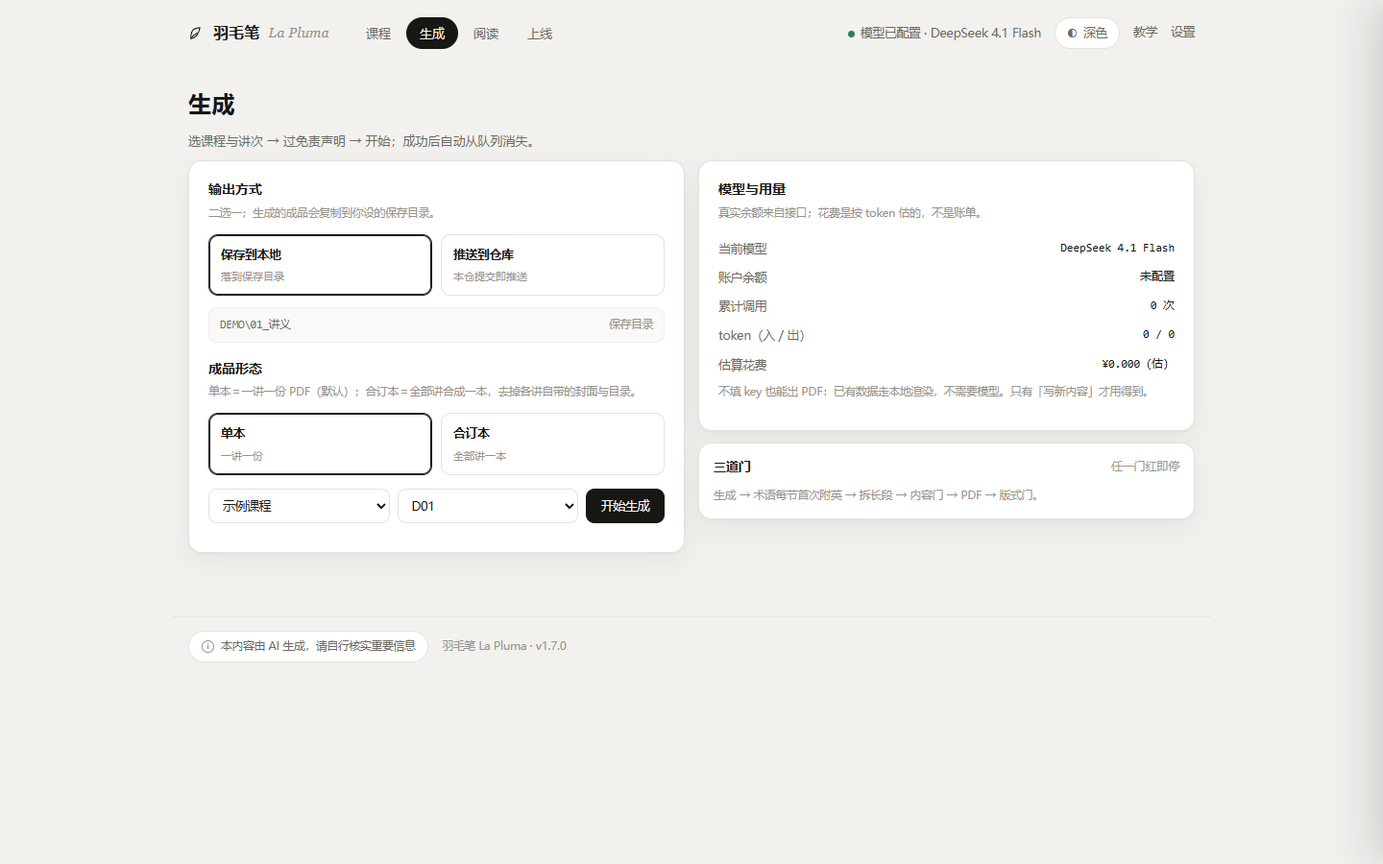
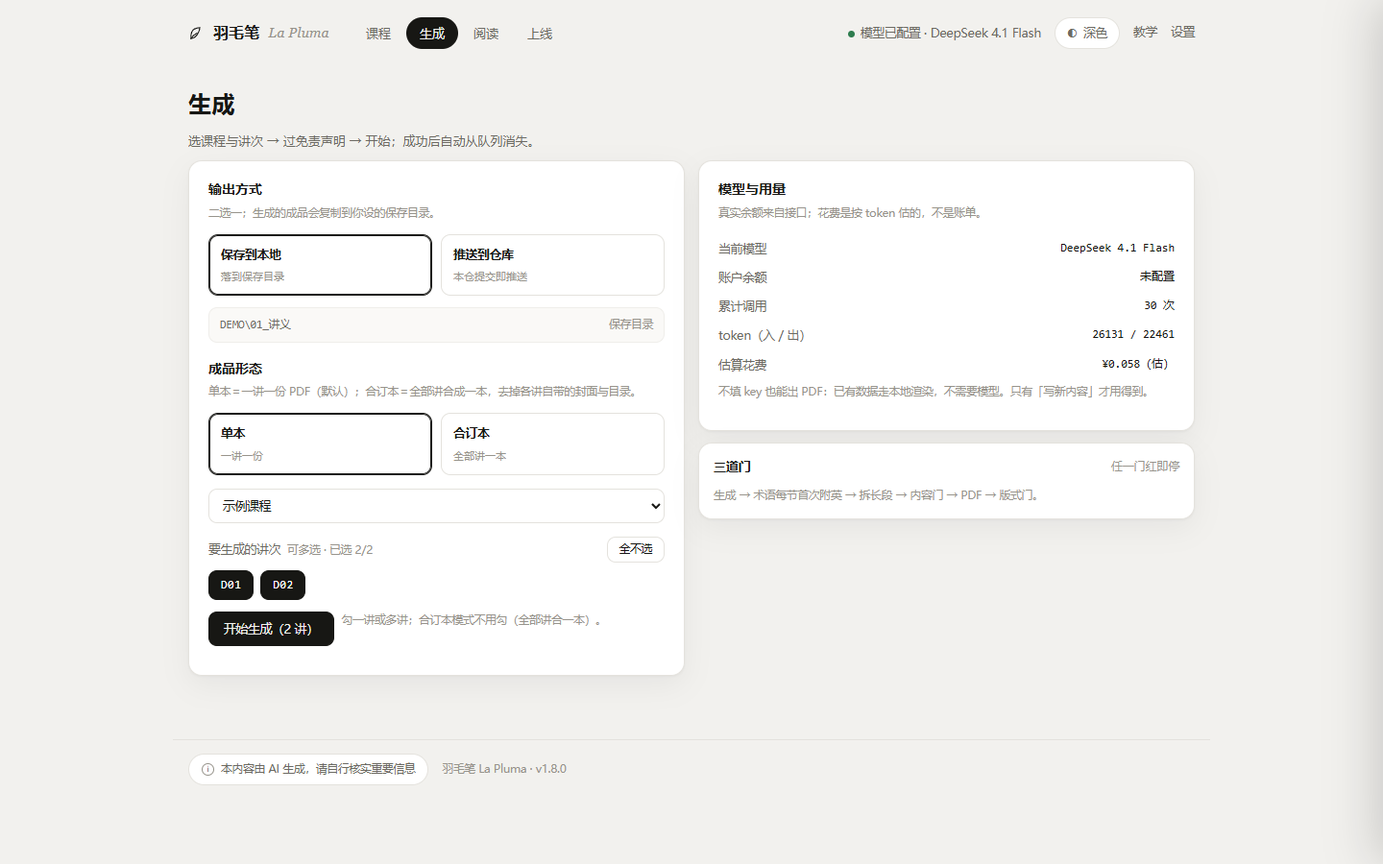
feat(ui): 导出先勾后导、生成页讲次可多选（v1.8.0 补充）
- 课程卡「⇩ 导出 PDF」改成勾选弹窗：默认全选，可全选/全不选；只勾一份直下这份
  PDF，勾多份打一个 zip（连续多次下载会被浏览器拦，所以打包）
- /api/export 新增 sel（可重复）：只打包选中的几份，只认这门课 01_讲义 下的文件名，
  选 1 份时直接回 PDF 而不是 zip
- 生成页「要生成的讲次」从单选下拉改成 chips，可多选；前端串行排队，队列里显示
  「排队中 / 生成中」，跑完就消失；合订本模式整块置灰（合订本 = 全部讲）
- 补图：界面-导出（新）、界面-生成（重拍）

实测：勾 1 份 → D02_桃花源记_讲义.pdf 1,711,891 B；勾 2 份 → DEMO_讲义_选2份.zip
1,446,609 B；批量勾 D01+D02 → 队列「D01 生成中 → D02 排队中 → D02 生成中 → 空」，
日志首行「成功（3s）」；控制台 0 报错。

diff --git a/ui/index.html b/ui/index.html
@@ -233,6 +233,11 @@ nav a.on{background:var(--ink);color:var(--bg)}
    font-size:12px;letter-spacing:.04em;transition:.16s}
 .lens button:hover{border-color:var(--sub);color:var(--ink)}
 .lens button.on{background:var(--chipon);color:var(--chipon-ink);border-color:var(--chipon)}
+/* 2026-11-17：生成页的讲次从单选下拉改成多选 chips（用户：「开始生成也是可以多选生成哪几个」） */
+.lsn-h{display:flex;align-items:center;justify-content:space-between;font-size:12.5px;color:var(--sub);margin:14px 0 8px}
+.lsn-h .n{font-size:11.5px;color:var(--faint);margin-left:7px}
+.lsn button{font-family:Consolas,monospace;padding:5px 12px}
+.lsn.dim{opacity:.45;pointer-events:none}
 
 /* 弹窗 */
 .veil{position:fixed;inset:0;background:rgba(10,10,9,.42);backdrop-filter:blur(2px);display:none;align-items:flex-start;
@@ -447,10 +452,15 @@ footer{max-width:1080px;margin:26px auto 0;padding:0 16px;display:flex;align-ite
           <div class="opt on" data-form="single"><b>单本</b><small>一讲一份</small></div>
           <div class="opt" data-form="book"><b>合订本</b><small>全部讲一本</small></div>
         </div>
-        <div class="tools">
-          <select id="courseSel"></select>
-          <select id="lessonSel"></select>
+        <div class="tools"><select id="courseSel"></select></div>
+        <div class="lsn-h">
+          <span>要生成的讲次<span class="n" id="lsnCnt">可多选</span></span>
+          <button class="btn ghost" id="lsnAll" style="padding:3px 12px;font-size:11.5px">全选</button>
+        </div>
+        <div class="lens lsn" id="lessonPick"></div>
+        <div class="tools" style="margin-top:12px">
           <button class="btn" id="btnGen">开始生成</button>
+          <span class="hint" id="genHint" style="border:0;margin:0;padding:0">勾一讲或多讲；合订本模式不用勾（全部讲合一本）。</span>
         </div>
         <div class="queue" id="queue"></div>
         <div class="log" id="log"></div>
@@ -763,11 +773,61 @@ function exportPdf(rel){
   downloadUrl('/api/export?p=' + encodeURIComponent(rel));
   toast('已开始下载：' + String(rel).split('/').pop());
 }
+/* 2026-11-17 用户纠：「课程的导出 PDF 是让你选择全部还是自己多选，再导出」——
+   所以卡片那个按钮不再直接下 zip，而是先开一个勾选弹窗（默认全选）。
+   只勾一份就直接下那份 PDF；勾多份打成一个 zip（连续多次下载会被浏览器拦）。 */
 function exportCourse(c){
   if(!c) return;
-  if(!(c.files||[]).length){ toast('这一门还没有成品，先去生成页出一份'); return; }
-  downloadUrl('/api/export?course=' + encodeURIComponent(c.code));
-  toast('已开始打包下载：' + c.code + ' · ' + c.files.length + ' 份讲义');
+  const files = sortFiles(c.files || []);
+  if(!files.length){ toast('这一门还没有成品，先去生成页出一份'); return; }
+  const sel = new Set(files.map(f => f.rel));      // 默认全选
+  $('#dlg').innerHTML = `
+    <div class="eb">Export PDF</div><h4>导出 PDF · ${esc(c.title)}</h4>
+    <p class="desc">勾要导出的讲义：只勾一份就直接下这份 PDF，勾多份打成一个 zip。保存到浏览器的下载文件夹。</p>
+    <div class="pickpdf">这一门共 ${files.length} 份<span id="exCnt" style="color:var(--faint);font-size:11.5px;margin-left:7px"></span>
+      <button class="btn ghost" id="exAll" style="float:right;padding:2px 10px;font-size:11.5px;margin-top:-3px">全选 / 全不选</button></div>
+    <div class="pdfs" id="exList">${files.map(f=>`<button data-rel="${esc(f.rel)}" data-name="${esc(f.name)}" class="on">
+        <span class="ck" style="font-family:Consolas,monospace;color:var(--faint);font-size:11.5px">✓</span>${esc(f.name)}<b>${f.pages} p</b></button>`).join('')}</div>
+    <p class="fine">合订本导出（把几讲并成一本）还没做，要合订本请去「生成」页选合订本重新生成。</p>
+    <div class="acts"><button class="btn ghost" id="exNo">取消</button>
+      <button class="btn" id="exGo">导出</button></div>`;
+  $('#veil').classList.add('on');
+  const sync = () => {
+    const n = sel.size;
+    $('#exCnt').textContent = '已选 ' + n + ' 份';
+    const go = $('#exGo');
+    go.disabled = n === 0;
+    go.textContent = n === 0 ? '导出' : (n === 1 ? '导出这 1 份' : ('导出 ' + n + ' 份（打包 zip）'));
+  };
+  $('#exList').querySelectorAll('[data-rel]').forEach(b=>b.onclick=()=>{
+    const rel = b.dataset.rel, on = sel.has(rel);
+    if(on) sel.delete(rel); else sel.add(rel);
+    b.classList.toggle('on', !on);
+    const ck = b.querySelector('.ck'); if(ck) ck.textContent = !on ? '✓' : '＋';
+    sync();
+  });
+  $('#exAll').onclick = () => {
+    const all = sel.size === files.length;
+    sel.clear(); if(!all) files.forEach(f=>sel.add(f.rel));
+    $('#exList').querySelectorAll('[data-rel]').forEach(b=>{
+      const on = sel.has(b.dataset.rel);
+      b.classList.toggle('on', on);
+      const ck = b.querySelector('.ck'); if(ck) ck.textContent = on ? '✓' : '＋';
+    });
+    sync();
+  };
+  $('#exNo').onclick = () => $('#veil').classList.remove('on');
+  $('#exGo').onclick = () => {
+    const pick = files.filter(f => sel.has(f.rel)).map(f => f.rel);
+    if(!pick.length) return;
+    let url = '/api/export?course=' + encodeURIComponent(c.code);
+    pick.forEach(r => { url += '&sel=' + encodeURIComponent(r); });
+    downloadUrl(url);
+    $('#veil').classList.remove('on');
+    toast(pick.length === 1 ? ('已开始下载：' + String(pick[0]).split('/').pop())
+                            : ('已开始打包下载：' + c.code + ' · ' + pick.length + ' 份讲义'));
+  };
+  sync();
 }
 function findHits(kw){
   const lc = kw.toLowerCase();
@@ -925,11 +985,42 @@ function fillSelects(){
   $('#courseSel').innerHTML = list.map(c=>`<option value="${esc(c.code)}">${esc(c.title)}</option>`).join('');
   syncLessons();
 }
+/* 2026-11-17：生成页讲次改多选（用户：「开始生成也是可以多选生成哪几个的」）。
+   LESSON_SEL 存勾中的讲号；换课程就清空，合订本模式下整块置灰（合订本 = 全部讲）。 */
+let LESSON_SEL = new Set();
 function syncLessons(){
   const c = (B.courses||[]).find(x=>x.code===$('#courseSel').value) || (B.courses||[])[0];
-  const opts = (c?c.lessons:[]).map(n=>`<option>${esc(n)}</option>`).join('') || '<option value="">（没有可生成的数据）</option>';
-  $('#lessonSel').innerHTML = opts;
+  const les = (c ? c.lessons : []) || [];
+  LESSON_SEL = new Set();
+  $('#lessonPick').innerHTML = les.map(n=>`<button data-lsn="${esc(n)}">${esc(n)}</button>`).join('')
+    || '<span class="hint" style="border:0;padding:0;margin:0">这一门没有可生成的数据（缺 `_lessons`）</span>';
+  $('#lessonPick').querySelectorAll('[data-lsn]').forEach(b=>b.onclick=()=>{
+    const k = b.dataset.lsn;
+    LESSON_SEL.has(k) ? LESSON_SEL.delete(k) : LESSON_SEL.add(k);
+    b.classList.toggle('on', LESSON_SEL.has(k));
+    syncLsnCnt();
+  });
+  syncLsnCnt();
 }
+function syncLsnCnt(){
+  const all = $('#lessonPick').querySelectorAll('[data-lsn]').length;
+  const n = LESSON_SEL.size;
+  $('#lsnCnt').textContent = FORM==='book' ? '合订本 = 全部讲' : ('可多选' + (n ? ' · 已选 '+n+'/'+all : ''));
+  $('#lsnAll').style.display = (FORM==='book' || !all) ? 'none' : '';
+  $('#lsnAll').textContent = (all && n === all) ? '全不选' : '全选';
+  $('#lessonPick').classList.toggle('dim', FORM==='book');
+  const go = $('#btnGen');
+  go.textContent = FORM==='book' ? '生成合订本' : (n ? ('开始生成（'+n+' 讲）') : '开始生成');
+  go.disabled = FORM==='book' ? false : (n === 0);
+}
+$('#lsnAll').onclick = () => {
+  const btns = $('#lessonPick').querySelectorAll('[data-lsn]');
+  const allOn = LESSON_SEL.size === btns.length && btns.length > 0;
+  LESSON_SEL.clear();
+  if(!allOn) btns.forEach(b=>LESSON_SEL.add(b.dataset.lsn));
+  btns.forEach(b=>b.classList.toggle('on', LESSON_SEL.has(b.dataset.lsn)));
+  syncLsnCnt();
+};
 $('#courseSel').onchange = syncLessons;
 document.querySelectorAll('.opt[data-mode]').forEach(o=>o.onclick=()=>{
   document.querySelectorAll('.opt[data-mode]').forEach(x=>x.classList.remove('on'));
@@ -939,17 +1030,33 @@ document.querySelectorAll('.opt[data-mode]').forEach(o=>o.onclick=()=>{
 document.querySelectorAll('.opt[data-form]').forEach(o=>o.onclick=()=>{
   document.querySelectorAll('.opt[data-form]').forEach(x=>x.classList.remove('on'));
   o.classList.add('on'); FORM=o.dataset.form;
-  $('#lessonSel').disabled = FORM==='book';
+  syncLsnCnt();
 });
 function renderQueue(){
   $('#queue').innerHTML = Q.map(q=>`<div class="qi ${q.st}"><span>${esc(q.course)} · ${esc(q.lesson)}</span>
-    <span class="st">${q.st==='run'?'生成中…':(q.st==='fail'?'失败：'+esc(q.msg||'看日志'):'完成')}</span></div>`).join('');
+    <span class="st">${q.st==='run'?'生成中…':(q.st==='wait'?'排队中…':(q.st==='fail'?'失败：'+esc(q.msg||'看日志'):'完成'))}</span></div>`).join('');
+}
+/* 批量生成：一次请求一讲（后端接口就是按讲走的），前端串行排队；
+   队列里先把所有勾中的讲摆成「排队中」，跑一讲改一讲，完的消失。 */
+let GEN_BUSY = false;
+async function runBatch(course, lessons, form){
+  GEN_BUSY = true; $('#btnGen').disabled = true;
+  const items = lessons.map(no => ({course, lesson:(form==='book' ? '合订本' : no), st:'wait'}));
+  Q = items.slice(); renderQueue();
+  try{
+    for(let i=0;i<lessons.length;i++){
+      await runGenerate(course, lessons[i], form, items[i]);
+    }
+  } finally { GEN_BUSY = false; $('#btnGen').disabled = false; syncLsnCnt(); }
 }
 $('#btnGen').onclick = () => {
-  const no = $('#lessonSel').value, course = $('#courseSel').value;
-  if(FORM==='book'){ if(!course) return; return disclaimer(()=>runGenerate(course,'','book')); }
-  if(!no) return;
-  disclaimer(()=>runGenerate(course,no,FORM));
+  if(GEN_BUSY) return;
+  const course = $('#courseSel').value;
+  if(!course) return;
+  if(FORM==='book') return disclaimer(()=>runBatch(course, [''], 'book'));
+  const list = [...LESSON_SEL];
+  if(!list.length){ toast('先勾要生成的讲次（可多选）'); return; }
+  disclaimer(()=>runBatch(course, list, 'single'));
 };
 function disclaimer(cb){
   $('#dlg').innerHTML = `
@@ -966,10 +1073,13 @@ function disclaimer(cb){
   const close = () => $('#veil').classList.remove('on');
   $('#dlgNo').onclick = close; $('#dlgYes').onclick = () => { close(); cb(); };
 }
-async function runGenerate(course, no, form){
+async function runGenerate(course, no, form, preset){
   form = form || 'single';
   const label = form==='book' ? '合订本' : no;
-  const item = {course, lesson:label, st:'run'}; Q.unshift(item); renderQueue();
+  let item = preset;
+  if(item) item.st = 'run';
+  else { item = {course, lesson:label, st:'run'}; Q.unshift(item); }
+  renderQueue();
   const log = $('#log'); log.style.display='block'; log.textContent = '正在生成 '+label+' …';
   $('#btnGen').disabled = true;
   try{
@@ -979,7 +1089,8 @@ async function runGenerate(course, no, form){
     if(j.ok){ Q = Q.filter(q=>q!==item); renderQueue(); B = await (await fetch('/api/bootstrap')).json(); render(); refreshUsage(); }
     else { item.st='fail'; item.msg=(j.error||'').slice(0,40); renderQueue(); }
   }catch(e){ item.st='fail'; item.msg='请求失败'; renderQueue(); log.textContent='请求失败：'+e; }
-  $('#btnGen').disabled = false;
+  // 批量里（preset 不为空）不由单讲解开按钮，否则排队中途按钮看着可点
+  if(!preset) $('#btnGen').disabled = false;
 }
 
 /* ---------- 会话 ---------- */

diff --git a/ui/server.py b/ui/server.py
@@ -763,8 +763,9 @@ class Handler(BaseHTTPRequestHandler):
                 return self._json(dict(ok=True, **load_session(q.get("code", [DEFAULT_COURSE])[0])))
             if u.path == "/api/export":
                 # 导出成品到本机下载目录（浏览器下载夹）：
-                #   ?p=<相对路径>  → 单份（等同于 /api/pdf?dl=1）
-                #   ?course=<课程> → 整门打包成一个 zip（多份逐个下载会被浏览器拦）
+                #   ?p=<相对路径>              → 单份（等同于 /api/pdf?dl=1）
+                #   ?course=<课程>              → 整门全部成品，打成一个 zip
+                #   ?course=<课程>&sel=<rel>…   → 只打包选中的几份（sel 可重复；只选 1 份就直接给 PDF）
                 # 为什么走下载而不是「拷到某个目录」：桌面上有下载夹，平板上也拿得到；
                 # 拷到一个用户还得先去找的目录，反而多一道。
                 rel = q.get("p", [""])[0]
@@ -776,6 +777,26 @@ class Handler(BaseHTTPRequestHandler):
                 files = course_pdfs(code)
                 if not files:
                     return self._json({"ok": False, "error": "这一门还没有成品，先去生成页出一份"}, 404)
+                sel = [x for x in (q.get("sel") or []) if x]
+                if sel:
+                    # 只认这一门 01_讲义 下的文件：按文件名比对，路径绕不出去
+                    by_name = {fn: full for full, fn in files}
+                    picked = []
+                    for r in sel:
+                        base = os.path.basename(str(r).replace("\\", "/"))
+                        if base in by_name and base not in [fn for _, fn in picked]:
+                            picked.append((by_name[base], base))
+                    if not picked:
+                        return self._json({"ok": False, "error": "选中的文件不在这门课的成品里"}, 400)
+                    if len(picked) == 1:
+                        return self._file(picked[0][0], inline=False)
+                    buf = io.BytesIO()
+                    with zipfile.ZipFile(buf, "w", zipfile.ZIP_DEFLATED) as z:
+                        for full, fn in picked:
+                            z.write(full, fn)
+                    return self._bytes(buf.getvalue(),
+                                       "%s_讲义_选%d份.zip" % (_safe_code(code), len(picked)),
+                                       "application/zip")
                 buf = io.BytesIO()
                 with zipfile.ZipFile(buf, "w", zipfile.ZIP_DEFLATED) as z:
                     for full, fn in files:

diff --git a/docs/预览/README.md b/docs/预览/README.md
@@ -32,7 +32,7 @@
 | `14-讲义多时-搜索.png` | 在 120 份里搜「第7讲」：只剩 1 行，计数变成 `1 / 120` | 同上 | **已实现** |
 | `15-课程旁放大镜.png` | 「课程」标题右侧一个圆形放大镜按钮 | 「在课程——课程旁边 放一个放大镜 打开是一个搜索栏」 | **已实现**（2026-11-17 v1.8.0）· 见 `../资产/界面-主页.png`；另新增「空输入时只摆最近三条」一态，见 `../资产/界面-搜索-最近.png` |
 | `15-搜索面板.png` | 点放大镜展开搜索栏：分「课程」「课件」两组结果，可直接开抽屉或在软件里读 | 「快速定位到课程甚至是课程里面的课件」 | **已实现**（Ctrl+K 唤出、Esc 先清空再收起）· 见 `../资产/界面-搜索.png`；此时课程行与课件行各加了一个「导出」（用户当场口径） |
-| `16-卡片导出PDF.png` | 每张课程卡片右下角一个「⇩ 导出 PDF」 | 「增加导出PDF在每个课程卡片的右下角」 | **已实现（简版）**：点一下就把整门成品打成一个 zip 下载（不做原稿里「全部分册 / 合订本」二选一；合订本导出待规划） |
+| `16-卡片导出PDF.png` | 每张课程卡片右下角一个「⇩ 导出 PDF」 | 「增加导出PDF在每个课程卡片的右下角」 | **已实现**（v1.8.0）：点开是勾选弹窗（默认全选、可全选/全不选），只勾一份直下 PDF、多份打 zip。见 `../资产/界面-导出.png` |
 | `17-阅读全屏.png` | 阅读页全屏：顶栏 / 导航 / 右侧笔记栏全部收起，页面铺满，右上角「退出全屏 · Esc」 | 「在软件里面阅读 的规范化没做好 没有全屏」 | **待实现**（全屏下按高度适配、←/→ 翻页、Esc 退出） |
 | `18-高峰价提示.png` | 生成页「模型与用量」卡里多一段：高峰（工作日 09–12 / 14–18 北京时间）价格是谷时两倍，估算按标准价 | 「写出 deepseek 高峰时间价格会翻倍 提示用户」 | **待实现** |
 | `19-多课程-62门.png` | 62 门课时的课程页实拍（压测）：3 列卡片、暂无搜索 | 「测试在课程很多的情况下 软件会怎么样」 | **已实现**（v1.8.0 加了放大镜与搜索面板，62 门不用再滚；卡片网格本身未改） |
@@ -67,7 +67,18 @@
 | 2026-11-17 | `ui\server.py` 的 `build_note_pdf`：笔记页字体改子集化（`subset_fonts` + `garbage=4/deflate_fonts`） | **不是界面改动**：导出「附笔记」PDF 的体积从 12.44 MB → 0.82 MB、合订本 16.78 → 5.04 MB；页数与逐页像素均未变（21/21 页 sha256 一致）。提交信息标 `[ui-noshow]`。详见 `../体检-零变更优化-20261117.md` |
 | 2026-11-17 | `ui\server.py` 的 `/pdfjs/` 路由：新增 `_static()`（ETag + 304，`no-cache`） | **不是界面改动**：只多了一个 304 分支与两个响应头，pdf.js 的字节、URL、加载方式全部未变。实测：首次 200 / 336,222 字节与磁盘一致；带 `If-None-Match` 回 304；`index.html` 仍 `no-store`；不存在文件仍 404 |
 | 2026-11-17 | `ui\server.py` 路径双根（v1.6.0）：`ROOT` 拆成 `paths.DATA_ROOT`（数据）/ `paths.RES_ROOT`（资源），课程发现扫两根、`safe_join` 允两根、`/api/generate` 改进程内调用 | **不是界面改动**：改动全在路径解析与进程调用，`ui\index.html` 一个字没动；截图同批重拍（`界面-会话` / `界面-导出笔记` / `界面-上线`，1440×900）已放进 `../资产/`，可在 README 的「界面」一节核对 |
-| 2026-11-17 | v1.8.0 只改了课程页（放大镜 / 搜索面板 / 卡片导出）与会话里那个笔记弹窗 | `check-ui-preview` 会报一条**黄 D**，列出 `界面-会话` / `界面-生成` / `界面-阅读` 等 12 张旧图——它们对应的页面这次一个字没改，图仍是真的，只是提交时间早于 `ui\`。两边同一天同一批在 `39ac17c` 里订正过：`界面-主页` / `界面-主页-深色` 重拍，`界面-搜索` / `界面-搜索-最近` / `界面-笔记多选` 新增 |
+| 2026-11-17 | v1.8.0 改的是课程页（放大镜 / 搜索面板 / 卡片导出弹窗）、生成页（讲次多选）与会话里那个笔记弹窗 | `check-ui-preview` 会报一条**黄 D**，列出 `界面-会话` / `界面-阅读` 等旧图——它们对应的页面这次没改，图仍是真的，只是提交时间早于 `ui\`。同批已重拍 `界面-主页` / `界面-主页-深色` / `界面-生成`，新增 `界面-搜索` / `界面-搜索-最近` / `界面-笔记多选` / `界面-导出` |
+
+## 2026-11-17 补丁：两处没先出图就改的（已补图、已告知）
+
+用户当场又提了两条，都是对我上面 15/16 两稿的纠正，没有再单独画设计稿就落地了（当时用户原话是「做完这些先推出」）：
+
+| 改了什么 | 用户原话 | 图 |
+|:--|:--|:--|
+| 课程导出改成先选后导（勾选弹窗） | 「课程的导出PDF 是让你选择的 全部还是自己多选的 再导出 缺一个UI」 | `../资产/界面-导出.png` |
+| 生成页讲次改多选（下拉框 → chips，勾几讲跑几讲） | 「开始生成也是可以多选生成哪几个的」 | `../资产/界面-生成.png` |
+
+下一次这类「用户看完图后当场提的修正」也按本表登记，别只活在提交信息里。
 
 ## 2026-11-17 全部重拍（脱敏）
 

diff --git a/CHANGELOG.md b/CHANGELOG.md
@@ -7,8 +7,10 @@
 - **课程旁的放大镜（设计稿 15）**：「课程」标题右侧一个圆按钮，展开是搜索栏，`Ctrl+K` 唤出；结果分「课程」「课件」两组。按浏览器逻辑：**没输字时只摆最近搜过的三条**（本机 localStorage，最多存 8 条），Esc 一次清空输入、再一次收起，点结果或回车才算一次「搜索」才进历史
 - **搜索结果行可直接导出**：课程行是「打开抽屉 / 导出」（整门打包一个 zip），课件行是「在软件里读 / 导出」（单份原 PDF）；课程卡右下角同时有「⇩ 导出 PDF」（设计稿 16），与课程行走同一段后端
 - **添加笔记可以选多个**：会话里「生成笔记 →」的挑选区从单选改成多选，勾几份就跑几份，各存自己的 `_附笔记.pdf`；勾了「让模型整理」也只调一次模型，结果共用。`/api/note/export` 新增 `targets`（旧的 `target` 仍认）
+- **导出先选后导**：课程卡右下那个按钮不再直接下 zip，改成先开勾选弹窗（默认全选、可全选/全不选）；只勾一份就直接下这份 PDF，勾多份打成一个 zip。`/api/export` 新增 `sel`（可重复，只认这门课 `01_讲义` 下的文件名）。合订本导出未做，弹窗里直说
+- **生成页讲次可多选**：「要生成的讲次」从单选下拉改成 chips，勾几讲跑几讲（串行排队，队列里显示「排队中 / 生成中」）；合订本模式整块置灰（合订本 = 全部讲）
 - **后端两条出口**：`GET /api/export?p=<相对路径>` 单份当附件下载；`?course=<课程>` 把这一门全部成品打成一个 zip（多份逐个下载会被浏览器拦）。修了一处旧错：笔记副本的相对路径原先只按数据根算，示例课程在资源根时会算出 `..\..\` 开头
-- 实测：整门 zip 2 份 / 1,446,609 字节；单份下载与源同大小；笔记多选 2 份 → 10 → 11 页、13 → 14 页；界面自测 9 项全过、控制台 0 报错
+- 实测：整门 zip 2 份 / 1,446,609 字节；单份下载与源同大小；笔记多选 2 份 → 10 → 11 页、13 → 14 页；导出弹窗只勾 1 份 → 直下 `D02_桃花源记_讲义.pdf` 1,711,891 字节、勾 2 份 → `DEMO_讲义_选2份.zip`；批量生成勾 D01+D02 → 队列「D01 生成中 → D02 排队中 → D02 生成中 → 空」、日志首行「成功（3s）」；界面自测 9 项全过、控制台 0 报错
 
 ## v1.7.0 · 2026-11-17
 

diff --git a/README.md b/README.md
@@ -61,12 +61,12 @@ python engine\_make.py D01
 
 | 我要做什么 | 在界面上点哪里 | 出来什么 |
 |:--|:--|:--|
-| **出一讲讲义** | 「生成」页选课程与讲次 → 勾免责声明 → 开始生成 | 一份 PDF，落进你设的保存目录；页数当场可核对 |
+| **出一讲讲义** | 「生成」页选课程 → 勾要生成的讲次（**可多选**）→ 勾免责声明 → 开始生成 | 每讲一份 PDF，落进你设的保存目录；勾几讲就跑几讲，队列里看得到排队 |
 | **全部讲合成一本** | 「生成」页「成品形态」选**合订本** | 一本：1 张封面 + 1 张总目录 + 各讲正文（去掉各讲自带的封面与目录） |
 | **在软件里读一份讲义** | 「课程」页点课程卡 → 抽屉里点那份 PDF | 进「阅读」页：翻页、缩放，不新开浏览器标签 |
 | **边读边记一笔** | 阅读页右侧输入框，笔记挂在当前 `p.N`；Ctrl+Enter 保存 | 存本机，按「课程 + 文档」分开存；关掉再开还在 |
 | **快速找到某门课 / 某份课件** | 「课程」标题右侧的**放大镜**（或 `Ctrl+K`）→ 敲课程名、讲号或课件关键词 | 面板分「课程」「课件」两组；没输字时按浏览器习惯只摆**最近搜过的三条**（只存这台电脑） |
-| **把成品导出到本机** | 课程卡右下「⇩ 导出 PDF」（整门打包）、搜索结果行「导出」（单份） | 落到浏览器的下载文件夹：整门是一个 zip，单份是原 PDF |
+| **把成品导出到本机** | 课程卡右下「⇩ 导出 PDF」→ 弹窗里勾要哪几份（默认全选）→ 导出；搜索结果行「导出」直接导单份 | 只勾一份就下 PDF；勾多份打一个 zip。都落到浏览器的下载文件夹 |
 | **把笔记附进 PDF** | 阅读页「添加到这份 PDF」 | 另存一份副本，笔记作为附页追加在末尾，原件不动 |
 | **问这门课** | 课程抽屉底部「问这一门 →」 | 一门课一个会话；回答带 §节号与课件页码，右侧可勾讲次缩范围 |
 | **把几次问答变成笔记** | 会话里勾几条消息 → 「生成笔记 →」→ 选讲义（**可多选**） | 每份选中的讲义各出一份副本，笔记追加到末尾（本地整理，不花 token） |
